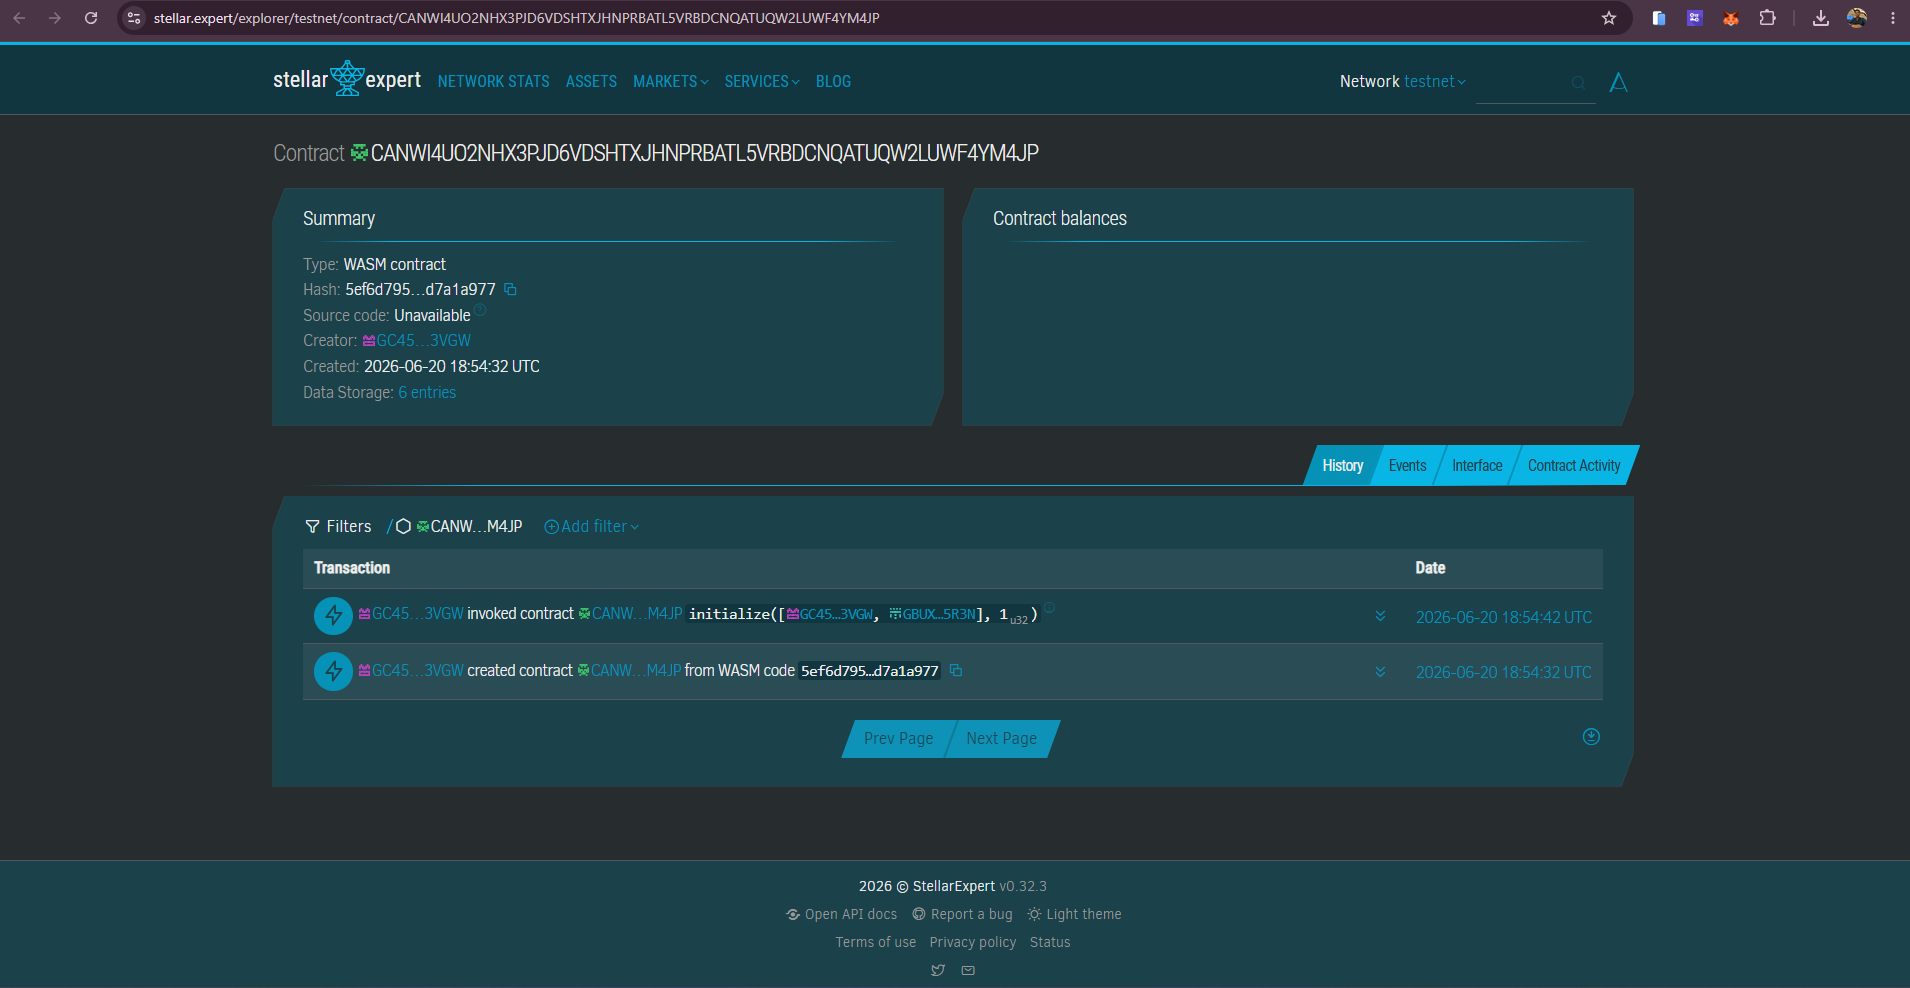
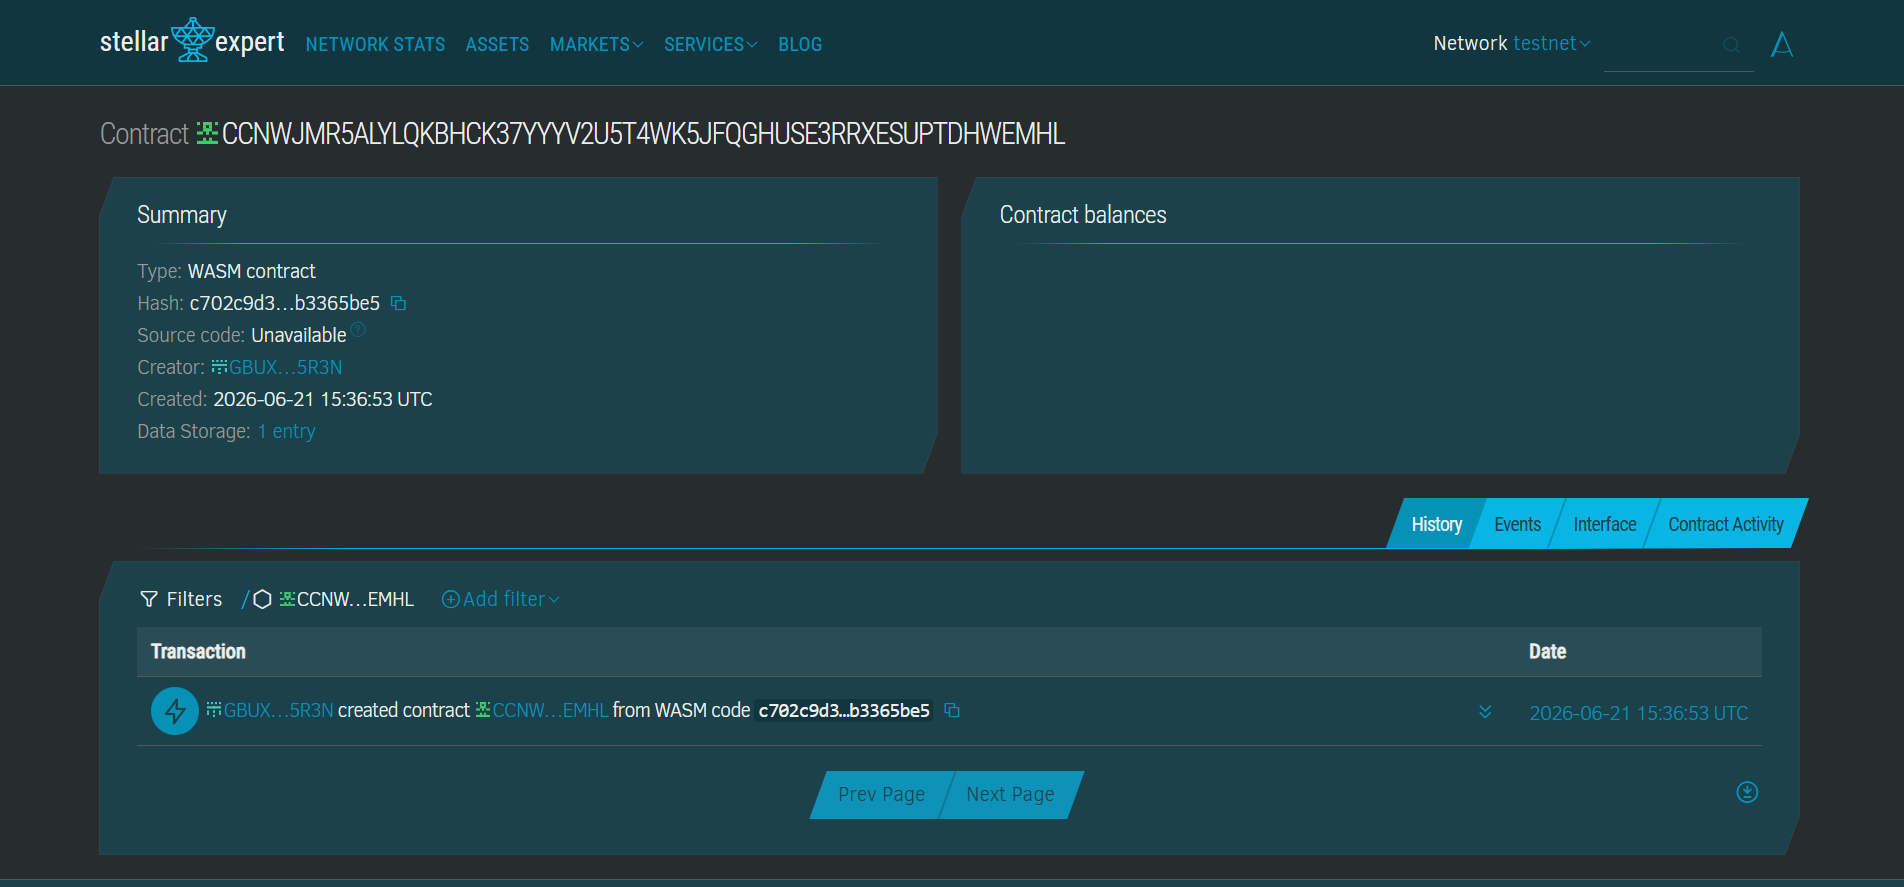
fix:readme

diff --git a/README.md b/README.md
@@ -18,8 +18,8 @@ A state-of-the-art, responsive operator console and Next.js frontend integrated 
 
 | Resource | Value / Link |
 | :--- | :--- |
-| **Contract ID** | `CANWI4UO2NHX3PJD6VDSHTXJHNPRBATL5VRBDCNQATUQW2LUWF4YM4JP` |
-| **Stellar Expert Explorer** | [View Contract on Stellar Expert](https://stellar.expert/explorer/testnet/contract/CANWI4UO2NHX3PJD6VDSHTXJHNPRBATL5VRBDCNQATUQW2LUWF4YM4JP) |
+| **Contract ID** | `CCNWJMR5ALYLQKBHCK37YYYV2U5T4WK5JFQGHUSE3RRXESUPTDHWEMHL` |
+| **Stellar Expert Explorer** | [View Contract on Stellar Expert](https://stellar.expert/explorer/testnet/contract/CCNWJMR5ALYLQKBHCK37YYYV2U5T4WK5JFQGHUSE3RRXESUPTDHWEMHL) |
 | **Freighter Wallet Address** | `GBUX3IHQTAIRN3BXVBWZMKFW2CF6FE4QKQWYEDHYGQXL6OQ3YFMN5R3N` |
 | **Live Deployment Link** | [multi-signature-treasury-dashboard.vercel.app](https://multi-signature-treasury-dashboard.vercel.app/) |
 